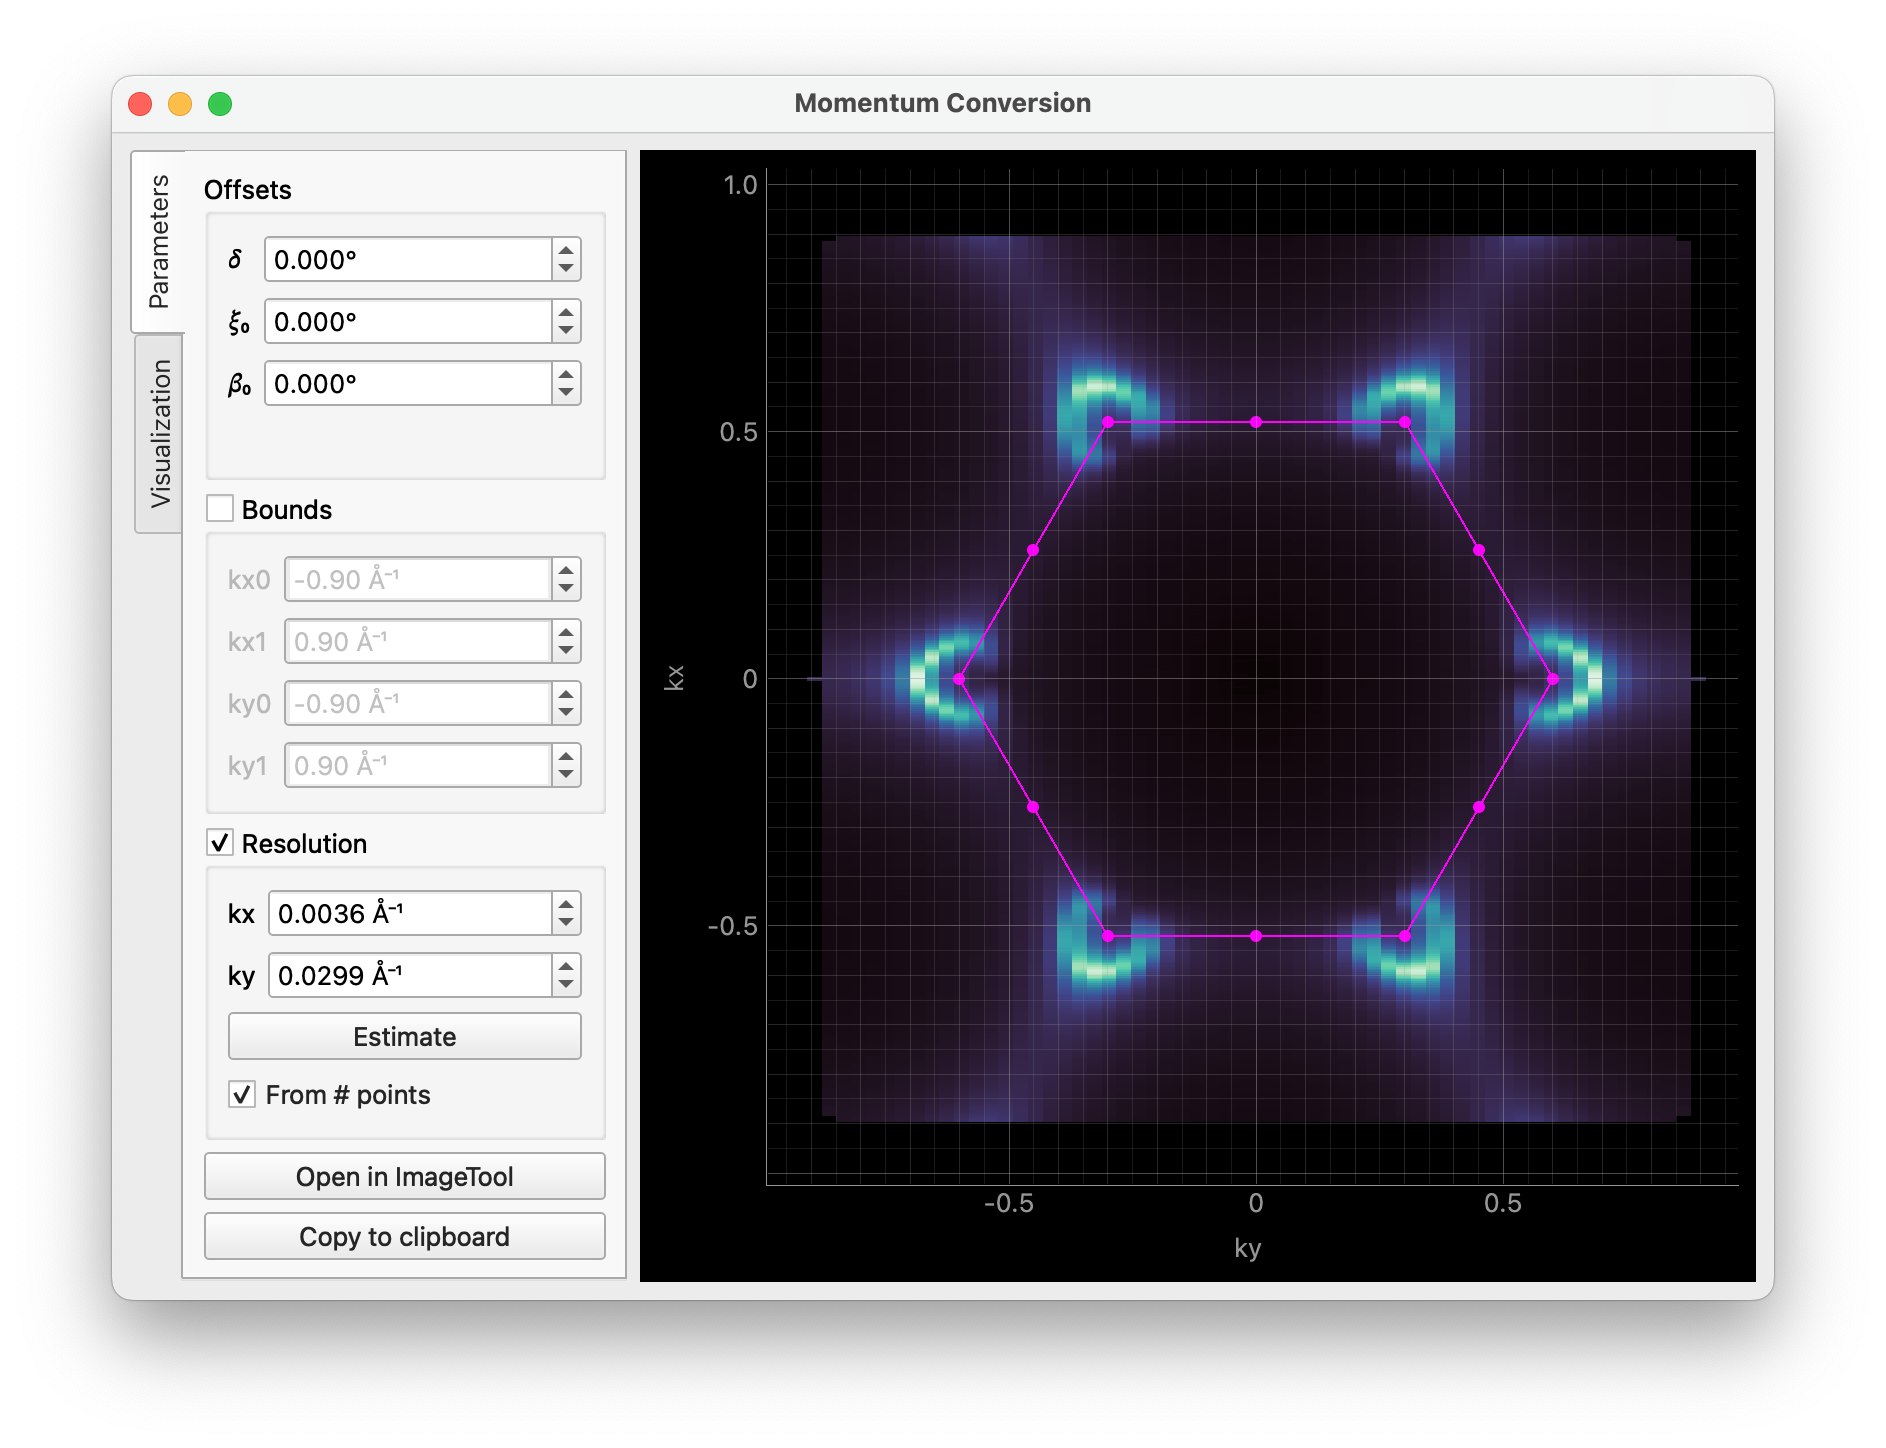
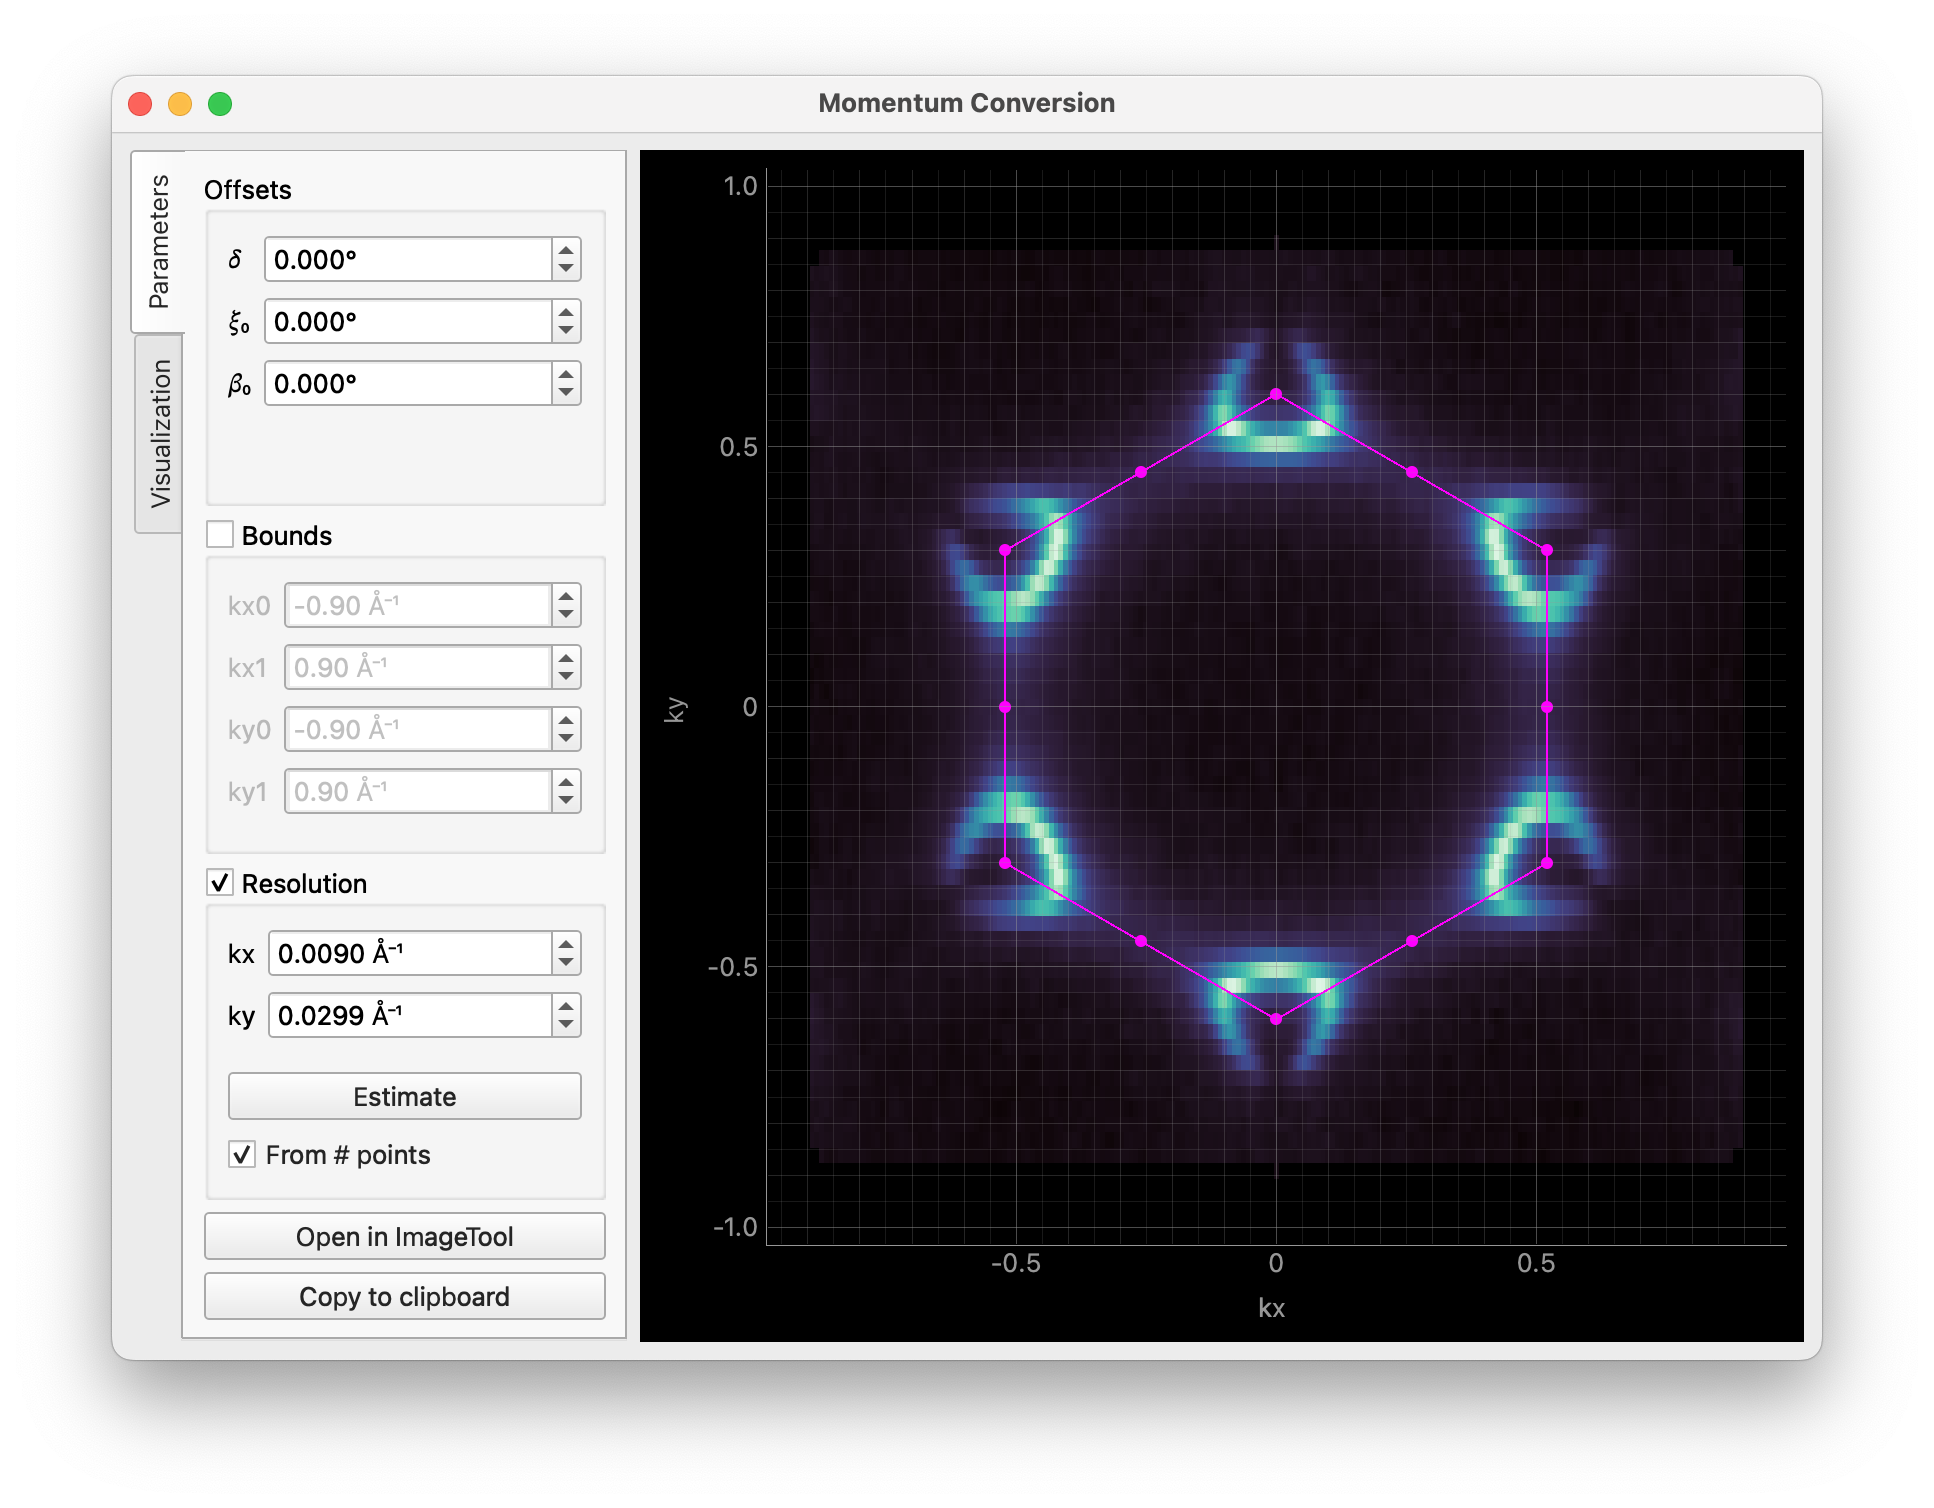
feat(interactive.kspace): pass lattice parameters and colormap info to `ktool`
Added the ability to pass lattice vectors and colormaps to `ktool`.

Changed region(s): [[0.0615, 0.0622, 0.9533, 0.9012]]

diff --git a/src/erlab/interactive/kspace.py b/src/erlab/interactive/kspace.py
@@ -16,6 +16,7 @@ import xarray as xr
 from qtpy import QtCore, QtGui, QtWidgets, uic
 
 import erlab.analysis
+import erlab.lattice
 from erlab.interactive.colors import (
     BetterColorBarItem,  # noqa: F401
     ColorMapComboBox,  # noqa: F401
@@ -125,7 +126,12 @@ class _MovableCircleROI(pg.CircleROI):
 class KspaceToolGUI(
     *uic.loadUiType(os.path.join(os.path.dirname(__file__), "ktool.ui"))  # type: ignore[misc]
 ):
-    def __init__(self) -> None:
+    def __init__(
+        self,
+        avec: npt.NDArray | None = None,
+        cmap: str | None = None,
+        gamma: float = 0.5,
+    ) -> None:
         # Initialize UI
         super().__init__()
         self.setupUi(self)
@@ -142,8 +148,15 @@ class KspaceToolGUI(
             plot.addItem(self.images[i])
             plot.showGrid(x=True, y=True, alpha=0.5)
 
+        if cmap is None:
+            cmap = "ColdWarm"
+
+        if cmap.endswith("_r"):
+            cmap = cmap[:-2]
+            self.invert_check.setChecked(True)
+
         # Set up colormap controls
-        self.cmap_combo.setDefaultCmap("ColdWarm")
+        self.cmap_combo.setDefaultCmap(cmap)
         self.cmap_combo.textActivated.connect(self.update_cmap)
         self.gamma_widget.setValue(0.5)
         self.gamma_widget.valueChanged.connect(self.update_cmap)
@@ -172,9 +185,22 @@ class KspaceToolGUI(
         self._roi_list: list[_MovableCircleROI] = []
         self.add_circle_btn.clicked.connect(self._add_circle)
 
+        if avec is not None:
+            self._populate_bz(avec)
+
+    def _populate_bz(self, avec) -> None:
+        a, b, c, _, _, gamma = erlab.lattice.avec2abc(avec)
+        self.a_spin.setValue(a)
+        self.b_spin.setValue(b)
+        self.c_spin.setValue(c)
+        self.ab_spin.setValue(a)
+        self.ang_spin.setValue(gamma)
+
     @QtCore.Slot()
     def _add_circle(self) -> None:
-        roi = _MovableCircleROI([-0.3, -0.3], radius=0.3, removable=True)
+        roi = _MovableCircleROI(
+            [-0.3, -0.3], radius=0.3, removable=True, pen=pg.mkPen("m", width=2)
+        )
         self.plotitems[1].addItem(roi)
         self._roi_list.append(roi)
 
@@ -235,8 +261,16 @@ class KspaceToolGUI(
 
 
 class KspaceTool(KspaceToolGUI):
-    def __init__(self, data: xr.DataArray, *, data_name: str | None = None) -> None:
-        super().__init__()
+    def __init__(
+        self,
+        data: xr.DataArray,
+        avec: npt.NDArray | None = None,
+        cmap: str | None = None,
+        gamma: float = 0.5,
+        *,
+        data_name: str | None = None,
+    ) -> None:
+        super().__init__(avec=avec, cmap=cmap, gamma=gamma)
 
         self._argnames = {}
 
@@ -338,6 +372,8 @@ class KspaceTool(KspaceToolGUI):
         self.open_btn.clicked.connect(self.show_converted)
         self.copy_btn.clicked.connect(self.copy_code)
         self.update()
+        if avec is not None:
+            self.bz_group.setChecked(True)
 
     def calculate_resolution(self) -> None:
         for k, spin in self._resolution_spins.items():
@@ -522,9 +558,31 @@ class KspaceTool(KspaceToolGUI):
 
 
 def ktool(
-    data: xr.DataArray, *, data_name: str | None = None, execute: bool | None = None
+    data: xr.DataArray,
+    avec: npt.NDArray | None = None,
+    cmap: str | None = None,
+    gamma: float = 0.5,
+    *,
+    data_name: str | None = None,
+    execute: bool | None = None,
 ) -> KspaceTool:
-    """Interactive momentum conversion tool."""
+    """Interactive momentum conversion tool.
+
+    Parameters
+    ----------
+    data
+        Data to convert.
+    avec : array-like, optional
+        Real-space lattice vectors as a 2x2 or 3x3 numpy array. If provided, the
+        Brillouin zone boundary overlay will be calculated based on these vectors.
+    cmap : str, optional
+        Name of the default colormap to use.
+    gamma
+        Default gamma value for the colormap.
+    data_name
+        Name to use in code generation. If not provided, the name will be inferred.
+
+    """
     if data_name is None:
         try:
             data_name = str(varname.argname("data", func=ktool, vars_only=False))
@@ -537,7 +595,7 @@ def ktool(
 
     cast(QtWidgets.QApplication, qapp).setStyle("Fusion")
 
-    win = KspaceTool(data, data_name=data_name)
+    win = KspaceTool(data, avec=avec, cmap=cmap, gamma=gamma, data_name=data_name)
     win.show()
     win.raise_()
     win.activateWindow()

diff --git a/tests/interactive/test_tools.py b/tests/interactive/test_tools.py
@@ -3,6 +3,7 @@ import pyperclip
 import xarray as xr
 from numpy.testing import assert_allclose
 
+import erlab.lattice
 from erlab.interactive.bzplot import BZPlotter
 from erlab.interactive.curvefittingtool import edctool, mdctool
 from erlab.interactive.derivative import dtool
@@ -70,7 +71,13 @@ result = _processed.differentiate('y').differentiate('y')"""
 
 
 def test_ktool(qtbot, anglemap):
-    win = ktool(anglemap, execute=False)
+    win = ktool(
+        anglemap,
+        avec=erlab.lattice.abc2avec(6.97, 6.97, 8.685, 90, 90, 120),
+        cmap="terrain_r",
+        execute=False,
+    )
+
     qtbot.addWidget(win)
     with qtbot.waitExposed(win):
         win.show()
@@ -86,6 +93,16 @@ def test_ktool(qtbot, anglemap):
 anglemap_kconv = anglemap.kspace.convert()"""
     )
     win.add_circle_btn.click()
+    roi = win._roi_list[0]
+    roi.getMenu()
+    roi.set_position((0.1, 0.1), 0.2)
+    assert roi.get_position() == (0.1, 0.1, 0.2)
+
+    roi_control_widget = roi._pos_menu.actions()[0].defaultWidget()
+    roi_control_widget.x_spin.setValue(0.0)
+    roi_control_widget.y_spin.setValue(0.2)
+    roi_control_widget.r_spin.setValue(0.3)
+    assert roi.get_position() == (0.0, 0.2, 0.3)
 
 
 def test_curvefittingtool(qtbot):
